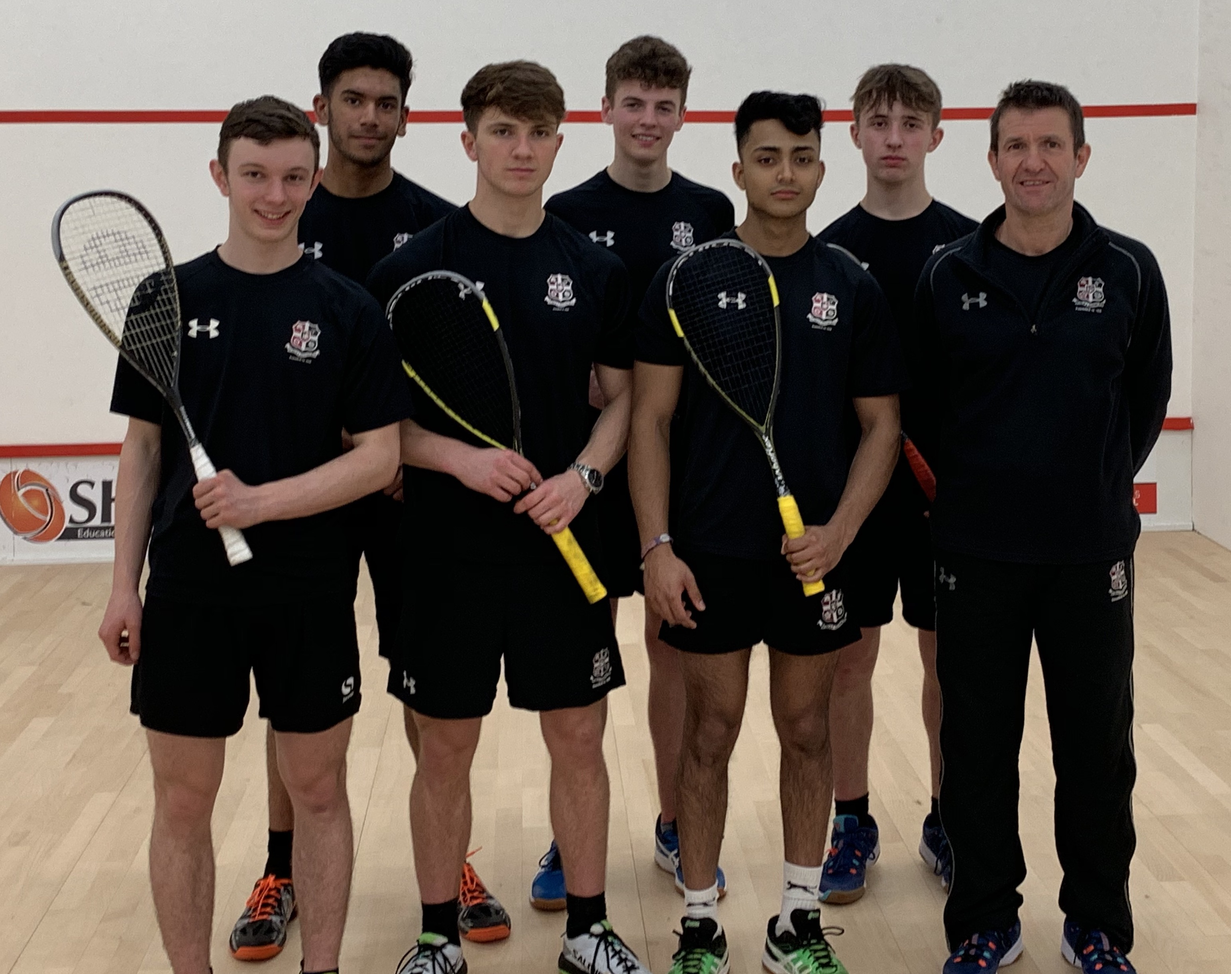
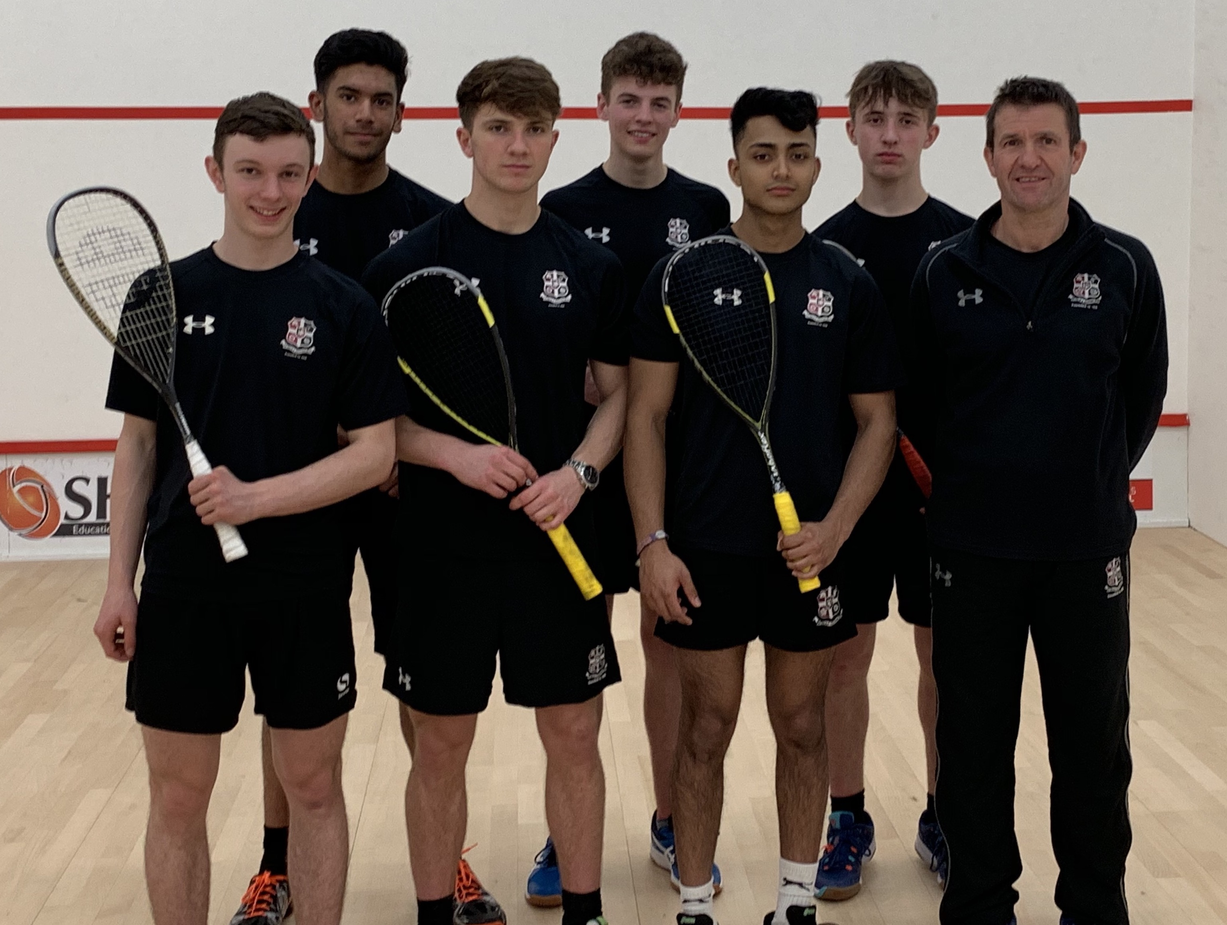
fixed stretching images

diff --git a/pages/ags.html b/pages/ags.html
@@ -119,6 +119,8 @@
 
                 <div class="coaching-main">
 
+                    <h2>AGS Facilities</h2>
+
                     <div class="coaching-primary-img">
                         <img src="../resources/img/withey-outside-courts.jpeg">
                     </div>
@@ -286,10 +288,18 @@
                         </tbody>
                       </table>
 
-                    <div class="row coaching-courts-row-2">
-                        <img src="../resources/img/gallery/img16.jpg">
-                        <img src="../resources/img/gallery/img15.jpg">
+                    
+                <div class="coaching-courts-row-2">
+                    <div class="row">
+                        <h2>Archive of AGS Teams</h2>
+                        <div class="col-6">
+                            <img src="../resources/img/gallery/img16.jpg">
+                        </div>
+                        <div class="col-6">
+                            <img src="../resources/img/gallery/img15.jpg">
+                        </div>
                     </div>
+                </div>
 
                 </div>
 

diff --git a/index.html b/index.html
@@ -109,7 +109,9 @@
             <div class="row">
                 <div class="col-5">
                     <h2>Welcome</h2>
-                    <p>I am a Licensed England Squash & Racketball Level 3 Advanced Coach and current England Masters International player.<br><br>I have vast experience coaching at all levels of the sport, with individuals and groups of all ages.</p>
+                    <p>I am a Licensed England Squash & Racketball Level 3 Advanced Coach and current England Masters International player.
+                        <br><br>I have vast experience coaching at all levels of the sport, with individuals and groups of all ages.
+                        <br><br></p>
                 </div>
                 <div class="col-7">
                     <video autoplay muted loop controls src="resources/img/withey-vs-matthews.mp4">

diff --git a/css/style.css b/css/style.css
@@ -682,6 +682,10 @@ a:active {
 	flex-direction: column;
 }
 
+.coaching-main h2 {
+	margin-bottom: 2vh;
+}
+
 .coaching-logo {
 	width: 100%;
 	display: flex;
@@ -737,16 +741,13 @@ a:active {
 	margin-bottom: 5vh;
 }
 
-.coaching-courts-row-2 {
-	display: flex;
-	justify-content: space-between;
-	margin-top: none;
-	width: 102.5%;
+.coaching-courts-row-2 h2 {
+	margin-bottom: 2vh;
 }
 
 .coaching-courts-row-2 img {
-	width: 48%;
 	object-fit: cover;
+	width: 100%;
 }
 
 .coaching-courts-row-3 img {

diff --git a/pages/racket-stringing.html b/pages/racket-stringing.html
@@ -224,6 +224,12 @@
                             <td><img src="../resources/img/strings/rab-string.jpg"></td>
                             <td>£23</td>
                         </tr>
+
+                        <tr>
+                            <td><br>More available on request!<br><br></td>
+                            <td></td>
+                            <td></td>
+                        </tr>
                     </tbody>
                 </table>
             </div>
